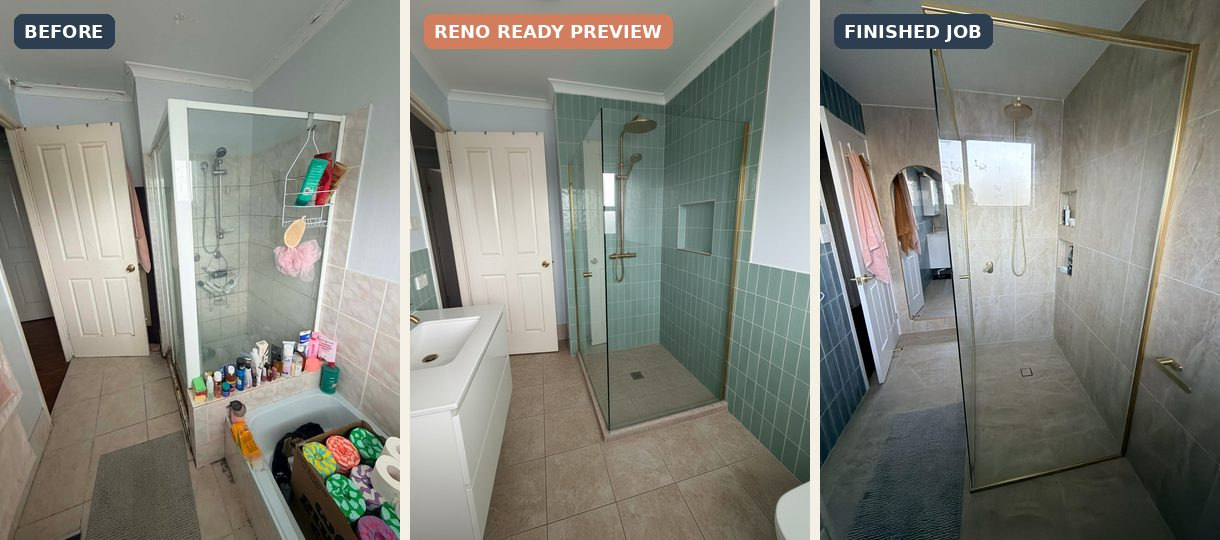
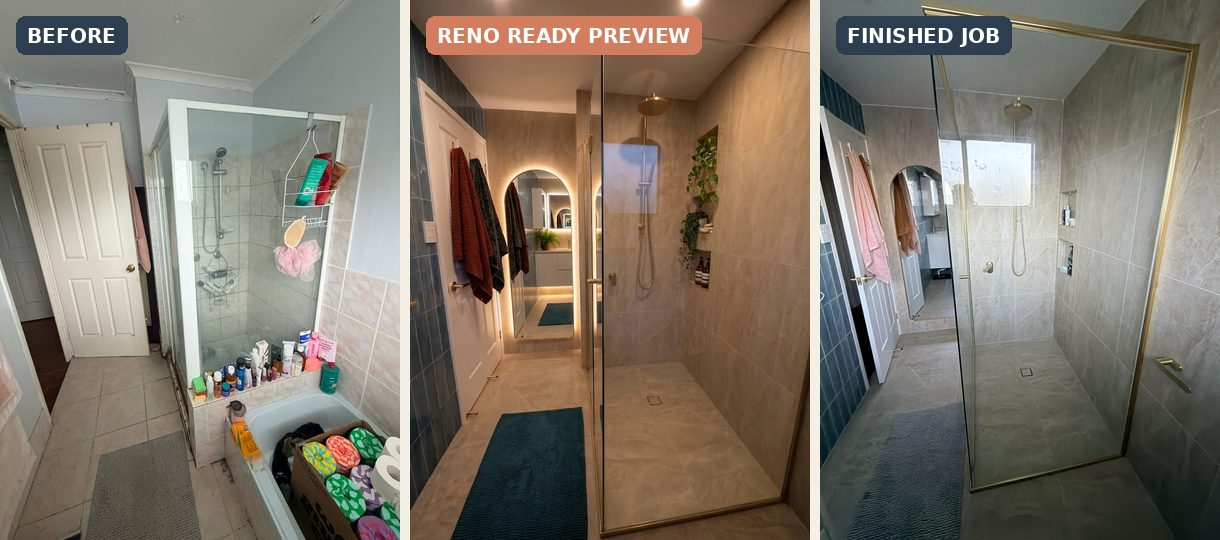
Home slider and outreach image: new bathroom render with a teal mat
The AI render now matches the finished job (stone tiles, blue feature
wall, gold-framed screen). The slider is a 3:4 box so both photos show
the whole room on desktop, and the designer note describes this render.
Outreach uses the three-panel before / preview / finished job image.

Claude-Session: https://claude.ai/code/session_01ArcKyGnjd7eMTeUjZ9NZD2

diff --git a/src/app/page.tsx b/src/app/page.tsx
@@ -426,9 +426,8 @@ export default function LandingPage() {
 
           <ScrollReveal variant="scaleIn" delay={0.1}>
             <BeforeAfterSlider
-              height={480}
-              className="w-full"
-              beforeSrc="/ai-render-sample.png"
+              className="mx-auto w-full max-w-[480px] !h-auto aspect-[3/4]"
+              beforeSrc="/ai-render-sample.jpg"
               afterSrc="/final-build-sample.jpg"
               beforeLabel="AI Render"
               afterLabel="Real Result"
@@ -444,16 +443,15 @@ export default function LandingPage() {
               </div>
               <div>
                 <p className="text-xs font-bold text-charcoal/50 uppercase tracking-widest mb-1.5">
-                  Designer Note — prompt sent to AI
+                  Designer Note — what was chosen
                 </p>
-                <p className="text-sm text-charcoal/70 leading-relaxed font-mono">
-                  &ldquo;Renovate this Australian bathroom with large-format Marble Blanc wall tiles,
-                  Nude Travertine herringbone floor, a floating white oak vanity with brushed gold tapware,
-                  and a frameless walk-in shower. Remove the freestanding bath. Budget: $28,000 AUD.
-                  Photorealistic render, natural light.&rdquo;
+                <p className="text-sm text-charcoal/70 leading-relaxed">
+                  Large-format stone-look wall and floor tiles, a blue vertical-tile feature wall,
+                  a walk-in shower with a brushed gold framed screen and rail shower, a tiled niche,
+                  and an arched backlit mirror. The old shower and bath are removed.
                 </p>
                 <p className="text-xs text-charcoal/40 mt-2">
-                  These selections are made in the Reno Ready builder — the prompt is generated automatically.
+                  These selections are made in the Reno Ready builder, and the preview is generated from the room photo.
                 </p>
               </div>
             </div>

diff --git a/marketing/outreach/README.md b/marketing/outreach/README.md
@@ -39,9 +39,9 @@ The list: `brisbane-gold-coast-builders.csv` (A = core, B = secondary).
 No replies after ~17 businesses and 15 follow-ups with v1, so v2 shows the result inside the email.
 - Subject: "Clients going quiet after the quote?"
 - Opening line about the business, then: "I've been speaking with a few renovators lately, and the same thing keeps coming up: **clients go quiet after the quote because they can't picture the finished room.**"
-- "So I built Reno Ready. Here's a real bathroom, before and with its Reno Ready preview:" then the inline image `before-preview-bathroom.jpg` (attach inline, `cid:att0`).
+- "So I built Reno Ready. Here's a real bathroom: the photo before, its Reno Ready preview, and the finished job:" then the inline image `proof-bathroom.jpg` (attach inline, `cid:att0`).
 - "You upload a photo of the room, pick the finishes with your client, and they see their own room transformed in seconds, with an itemised cost estimate."
 - "**Send me a photo of a room you're quoting and I'll mock it up for free.** Or try it yourself at www.renoready.com.au/b/<code>"
 - Then sign-off, signature (includeSignature), opt-out line.
-- Don't use `proof-bathroom.jpg` (before / preview / finished job) in cold emails: the finished job used different tiles, so the preview looks like it "didn't match".
+- `proof-bathroom.jpg` is before / preview / finished job (1220×540). The preview is a real Reno Ready render, with the rug changed to a plain teal mat in AI Studio (20 Nov). It matches the finished job: stone tiles, blue feature wall, gold-framed screen. The render on its own: `marketing/showreel/assets/preview-teal.jpg` (also on the home page slider).
 - Prestige (info@prestigetilinganddesign.com.au) bounced: no such mailbox.
